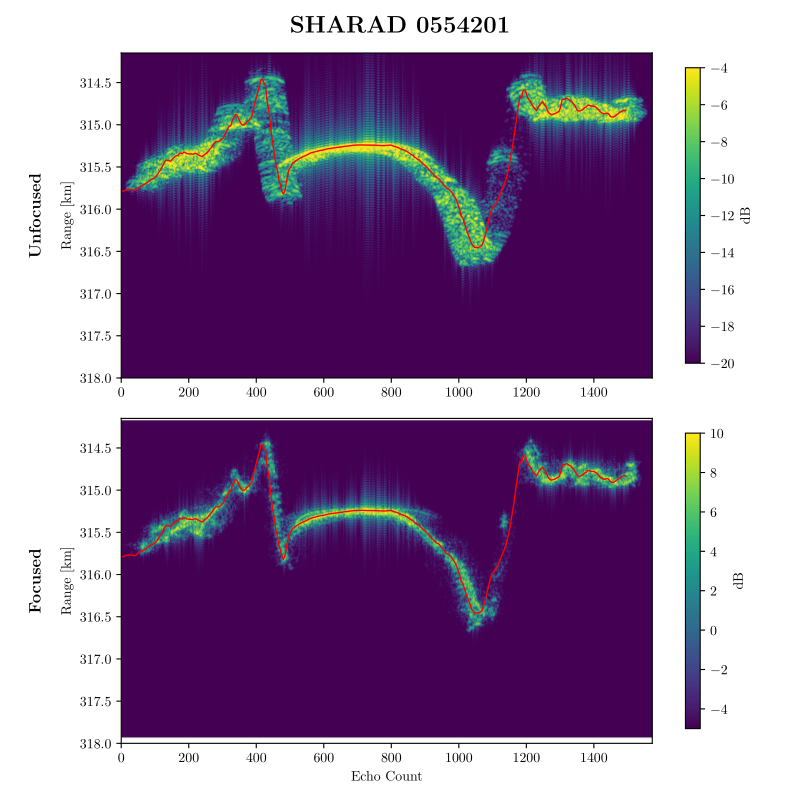
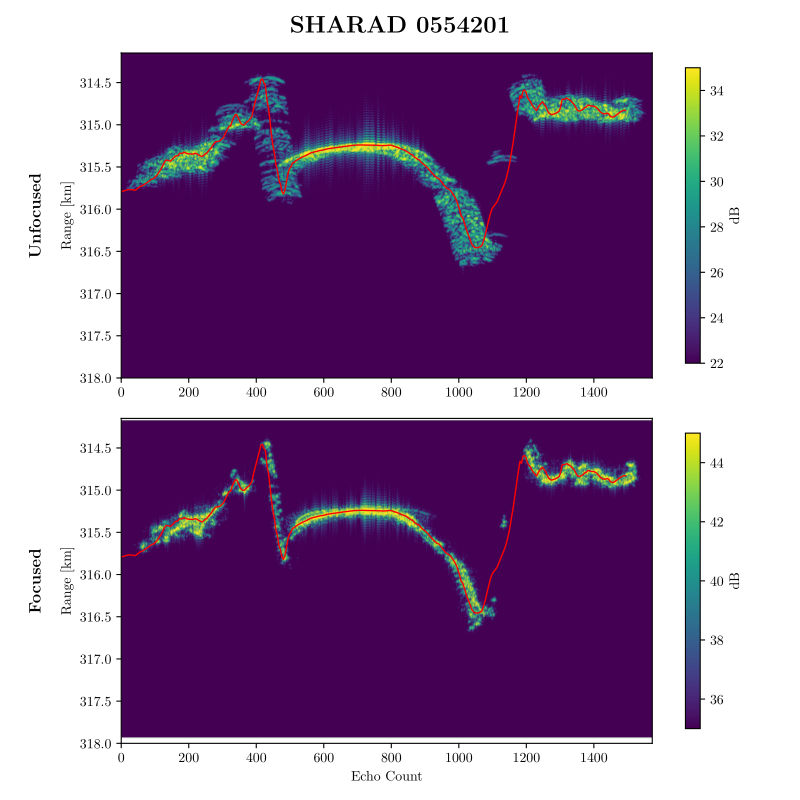
Fixed 554201 fig and facet beam pattern is in power now

diff --git a/examples/KOROLEV/code/plots.py b/examples/KOROLEV/code/plots.py
@@ -1,6 +1,8 @@
 import numpy as np
 import sys
 import matplotlib.pyplot as plt
+import matplotlib.colors as mcolors
+from mpl_toolkits.axes_grid1 import make_axes_locatable
 
 sys.path.append("../../src/PYTHON")
 import rdr_plots       as rp
@@ -43,7 +45,7 @@ ymin = np.min(RX_WIN_OPEN)-rdrgrm.shape[0]*RNG_BIN_INT*c/2
 ymax = np.min(RX_WIN_OPEN)
 
 # correction factor
-correction = 9650
+correction = 9675
 ymin = srad - (ymin + correction + MRAD)
 ymax = srad - (ymax + correction + MRAD)
 
@@ -105,6 +107,10 @@ for t in range(xen - xst):
     # interpolate
     foc_intrp[:, t] = np.interp(rea_rng, foc_rng, trace_stack)
 
+# clean up infs and nans
+foc_intrp[np.isinf(foc_intrp)] = np.nanmin(foc_intrp[np.isfinite(foc_intrp)])
+foc_intrp[np.isnan(foc_intrp)] = np.nanmin(foc_intrp[np.isfinite(foc_intrp)])
+
 extent_syn = [
     xst, xen,
     rea_rng_en, rea_rng_st,
@@ -117,38 +123,117 @@ rbCROP_st = int((rea_rng_st - ymax) // (RNG_BIN_INT*c/2))
 rbCROP_en = int((rea_rng_en - ymax) // (RNG_BIN_INT*c/2))
 NoOffset_crop = NoOffset[rbCROP_st:rbCROP_en-1, xst:xen]
 
-fig, ax = plt.subplots(2, 1, figsize=(11, 15))
-ax[0].imshow(NoOffset_crop, vmax=0.01, extent=extent_syn, aspect=0.1)
-ax[0].plot(aeroid['SRAD'][750:1200]*1e3 - mola, color="red", linewidth=1)
-ax[0].set_xlim(xst,xen)
-ax[0].set_ylim(318e3, 314e3)
-ax[1].imshow(foc_intrp, vmin=-5, vmax=10, extent=extent_syn, aspect=0.1)
-ax[1].plot(aeroid['SRAD'][750:1200]*1e3 - mola, color="red", linewidth=1)
-plt.savefig("tmp.png")
+# adjust if necessary
+if NoOffset_crop.shape[1] > foc_intrp.shape[1]:
+    NoOffset_crop = NoOffset_crop[:, :foc_intrp.shape[1]]
+if foc_intrp.shape[0] > NoOffset_crop.shape[0]:
+    foc_intrp = foc_intrp[:NoOffset_crop.shape[0], :]
+
+# scale rdr images
+rea_scl = uc.scale_range(NoOffset_crop, np.min(NoOffset_crop), 0.001)
+syn_min, syn_max = 35, 45
+foc_scl = uc.scale_range(foc_intrp, syn_min, syn_max)
+
+print(np.min(rea_scl), np.max(rea_scl))
+print(np.min(foc_scl), np.max(foc_scl))
+
+# rgb color scale
+rea_clr = np.array([0xFF, 0x00, 0x80])
+foc_clr = np.array([0x00, 0xFF, 0x80])
+
+# create rgb images
+rgb = np.zeros((rea_scl.shape[0], rea_scl.shape[1], 3))
+
+for i in range(3):
+    rgb[:, :, i] += rea_scl * rea_clr[i]
+    rgb[:, :, i] += foc_scl * foc_clr[i]
+
+# blue channel can wrap over so lets fix that
+rgb[:, :, 2][rgb[:, :, 2] > 255] = 255
+
+# export
+plt.imsave("figures/rdr_comparison.png", rgb.astype(np.uint8))
+
+
+
+fig, ax = plt.subplots(figsize=(8, 9))
+
+extent_syn = [
+    np.max(aeroid['LAT']),
+    np.min(aeroid["LAT"]),
+    rea_rng_en/1e3,
+    rea_rng_st/1e3,
+]
+
+im = ax.imshow(rgb.astype(np.uint8), extent=extent_syn, aspect="auto")
+
+# --- COLORBARS -----------------------------------------------------
+
+divider = make_axes_locatable(ax)
+
+# Place both bars close to the image
+cax1 = divider.append_axes("right", size="3%", pad=0.05)
+cax2 = divider.append_axes("right", size="3%", pad=0.4)
+
+# Build exact colormaps
+rea_clr = np.array([255, 0, 128]) / 255
+foc_clr = np.array([0, 255, 128]) / 255
+
+cmap_rea = mcolors.LinearSegmentedColormap.from_list("rea_map", [(0,0,0), rea_clr])
+cmap_foc = mcolors.LinearSegmentedColormap.from_list("foc_map", [(0,0,0), foc_clr])
+
+mappable_rea = plt.cm.ScalarMappable(
+    norm=plt.Normalize(vmin=np.min(rea_scl), vmax=np.max(rea_scl)),
+    cmap=cmap_rea
+)
+mappable_rea.set_array([])
+
+mappable_foc = plt.cm.ScalarMappable(
+    norm=plt.Normalize(vmin=np.min(foc_scl), vmax=np.max(foc_scl)),
+    cmap=cmap_foc
+)
+mappable_foc.set_array([])
+
+# Create colorbars
+cbar1 = fig.colorbar(mappable_foc, cax=cax1)
+cbar1.set_label("Synthetic Power [dB]", rotation=270, labelpad=-6)
+
+cbar2 = fig.colorbar(mappable_rea, cax=cax2)
+cbar2.set_label("Real Power [?]", rotation=270, labelpad=-6)
+
+ticklocs = [0, 0.25, 0.75, 1.0]
+cbar1.set_ticks(ticklocs)
+cbar1.set_ticklabels([f"{t * (syn_max - syn_min) + syn_min:.1f}" for t in ticklocs], fontsize=8)
+
+cbar2.set_ticks(ticklocs)
+cbar2.set_ticklabels([f"{t:.1f}" for t in ticklocs], fontsize=8)
+
+# --- LABELS --------------------------------------------------------
+
+ax.set_xlabel("Latitude [deg]")
+ax.set_ylabel("Range [km]")
+ax.set_title("SHARAD Obs. 0554201", fontsize=18, fontweight="bold")
+
+plt.savefig("figures/KOROLEV.png", dpi=300, bbox_inches="tight")
 plt.close()
 
-sys.exit()
 
-fig, ax = plt.subplots(1, 1, figsize=(4, 12))
-im = ax.imshow(rdr_db, vmin=-20, vmax=-4, cmap="viridis", aspect=3)
-plt.colorbar(im)
-plt.savefig("figures/rdrgrm.png")
-plt.close()
+
 
 # generate final plot
 geometry = ku.load_sharad_orbit_PKL(DIRECTORY, OBS)
 
 extent = [
-    0, Na, #(Na * par['spacing'])/1e3,
+    0, Na,
     np.min(rx_win)/1e3 + 7.5, np.min(rx_win)/1e3,
 ]
 
 fig, ax = plt.subplots(2, 1, figsize=(8, 8), sharey=True)
 
 # rdrgrms
-im1 = ax[0].imshow(rdr_db, vmin=-20, vmax=-4, cmap="viridis", aspect=250, extent=extent)
+im1 = ax[0].imshow(rdr_db, vmin=22, vmax=35, cmap="viridis", aspect=250, extent=extent)
 plt.colorbar(im1, label="dB", shrink=0.9)
-im2 = ax[1].imshow(uc.lin_to_db(np.abs(focused)), extent=extent, vmin=-5, vmax=10, aspect=250)
+im2 = ax[1].imshow(uc.lin_to_db(np.abs(focused)), extent=extent, vmin=35, vmax=45, aspect=250)
 plt.colorbar(im2, label="dB", shrink=0.9)
 
 # labels

diff --git a/src/PYTHON/output_handling.py b/src/PYTHON/output_handling.py
@@ -1,7 +1,7 @@
 import numpy as np
 import glob, pickle
 
-def compile_rdrgrm(path, par, debug=False, rx_win_file=None):
+def compile_rdrgrm(path, par, rx_win_file=None):
 
     filenames = glob.glob(f"{path}/s*.txt")
 
@@ -11,28 +11,19 @@ def compile_rdrgrm(path, par, debug=False, rx_win_file=None):
     if rx_win_file:
         rx_win_adj = np.load(rx_win_file)
         rx_win_adj_rb = (rx_win_adj - np.min(rx_win_adj)) // ((1/par["rx_sample_rate"]) * 299792458)
-        print(rx_win_adj_rb)
 
     rdrgrm = []
-    lengths = []
     for i, f in enumerate(filenames):
         if i < par['ns']:
             print(f"Compiling radargram... {i}/{par['ns']}", end="           \r")
             arr = np.loadtxt(f).T
             col = arr[0] + 1j * arr[1]
-            if debug:
-                lengths.append(len(col))
             if rx_win_file:
                 index = int(f.split("/")[-1][1:-4])
                 col = np.roll(col, rx_win_adj_rb[index])
             rdrgrm.append(col)
 
     print("",end='\n')
-
-    if debug:
-        print(f"=== Samples by trace: ===")
-        print(lengths)
-        print(f"=========================")
 
     rdrgrm = np.array(rdrgrm).T
 

diff --git a/src/PYTHON/unit_convs.py b/src/PYTHON/unit_convs.py
@@ -48,7 +48,7 @@ def upsample(n, data):
     orig_rng = np.linspace(0, 1, len(data))
 
     return np.interp(interp_rng, orig_rng, data)
-    
+
 def upsample_df(n, df):
     interp_rng = np.linspace(0, 1, n)
     orig_rng = np.linspace(0, 1, len(df))
@@ -57,3 +57,9 @@ def upsample_df(n, df):
 
     return numeric_df.apply(lambda col: np.interp(interp_rng, orig_rng, col))
 
+def scale_range(data, vmin, vmax):
+
+    dat_clip = np.clip(data, vmin, vmax)
+    scaled = (dat_clip - vmin) / (vmax - vmin)
+
+    return scaled
